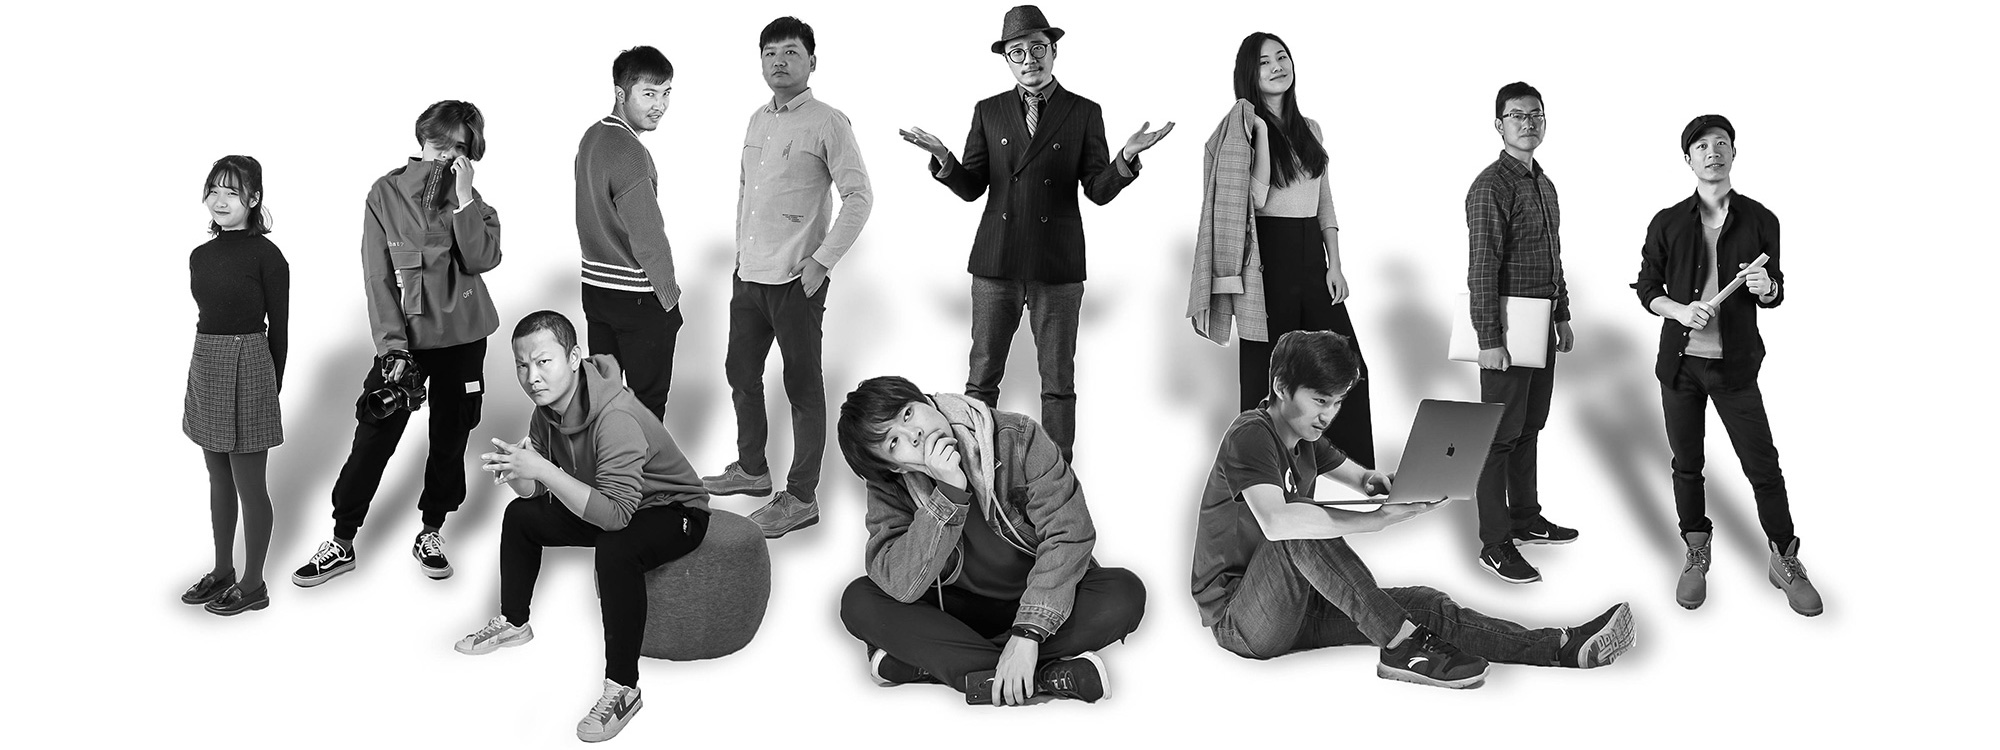
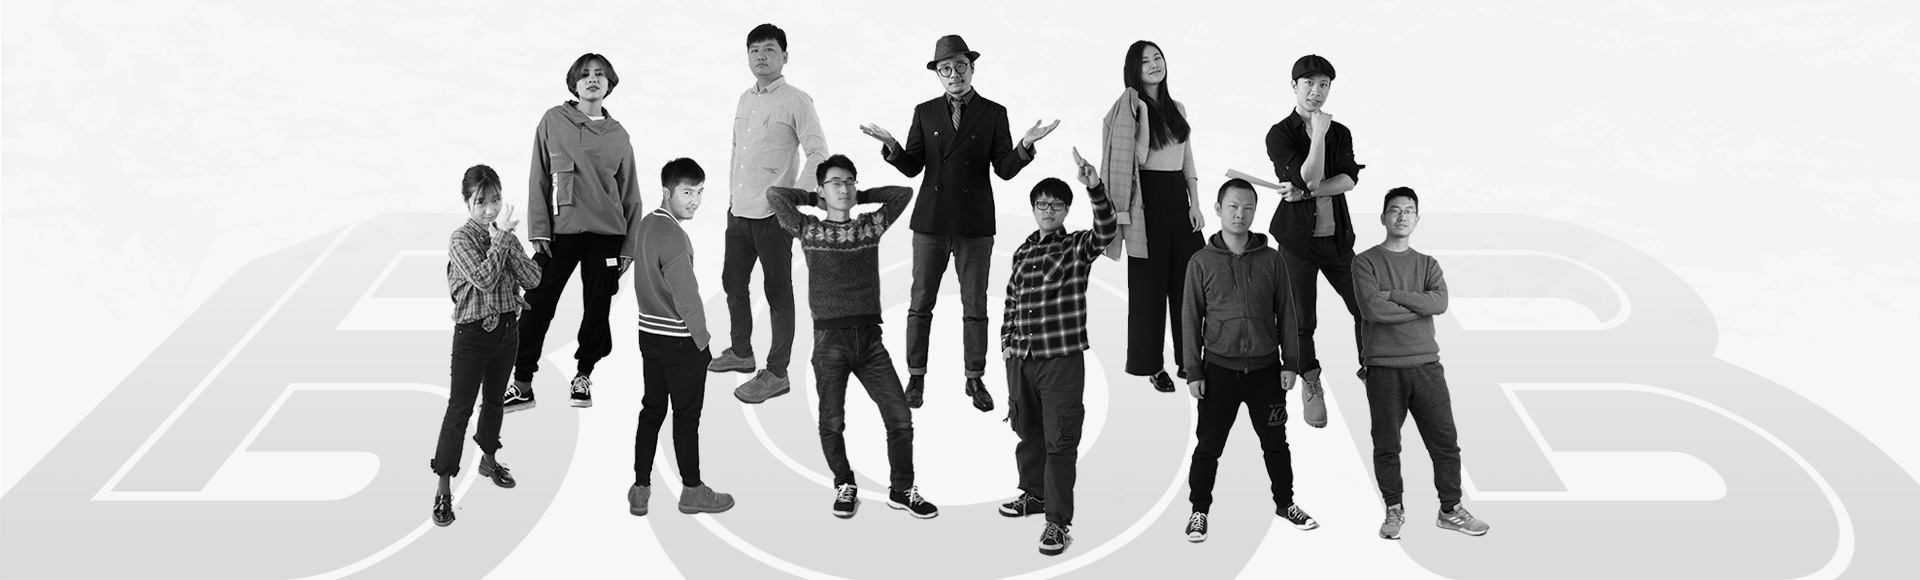
css

diff --git a/src/components/bobTeam.vue b/src/components/bobTeam.vue
@@ -1,9 +1,11 @@
 <template>
   <section class="section5" id="section4">
-    <h5 class="section-title">
+    <!-- <h5 class="section-title">
       <span>有那么一群人 / <span class="en">our team</span> </span>
-    </h5>
-    <div class="teamPic"></div>
+    </h5> -->
+    <router-link to="/team">
+      <div class="teamPic"></div>
+    </router-link>
   </section>
 </template>
 
@@ -32,14 +34,14 @@ export default {
 @import "../less/common.less";
 
 .section5{
-  padding: 0.5rem 0;
+  // padding: 0.5rem 0;
   
   .section-title{
       margin-bottom:0.2rem;
   }
   .teamPic{
       background: url("../images/team.jpg") no-repeat;
-      height: 750px;
+      height: 580px;
   }
 }
 </style>

diff --git a/src/components/bobFooter.vue b/src/components/bobFooter.vue
@@ -20,7 +20,7 @@
         <p class="item-title">CONTACT US</p>
         <div class="item-content">
           <p>郑东新区祥盛街8号 福晟国际大厦1层</p>
-          <p>0371-55261585</p>
+          <p>0371-61875269</p>
         </div>
         <div class="codeImg">
           <img src="../images/codeImg.png" alt="">

diff --git a/src/views/Home.vue b/src/views/Home.vue
@@ -4,8 +4,8 @@
     <bob-banner></bob-banner>
     <bob-service></bob-service>
     <bob-aboutus></bob-aboutus>
-    <bob-team></bob-team>
     <bob-data></bob-data>
+    <bob-team></bob-team>
     <bob-footer></bob-footer>
   </div>
 </template>

diff --git a/src/components/bobData.vue b/src/components/bobData.vue
@@ -70,7 +70,7 @@ export default {
 @wrapper: 1.4rem;
 #section4 {
   padding-top: 0.5rem;
-  background: #f5f5f5;
+  background: #fff;
   .content {
     margin: 0 auto;
     flex-wrap: wrap;
